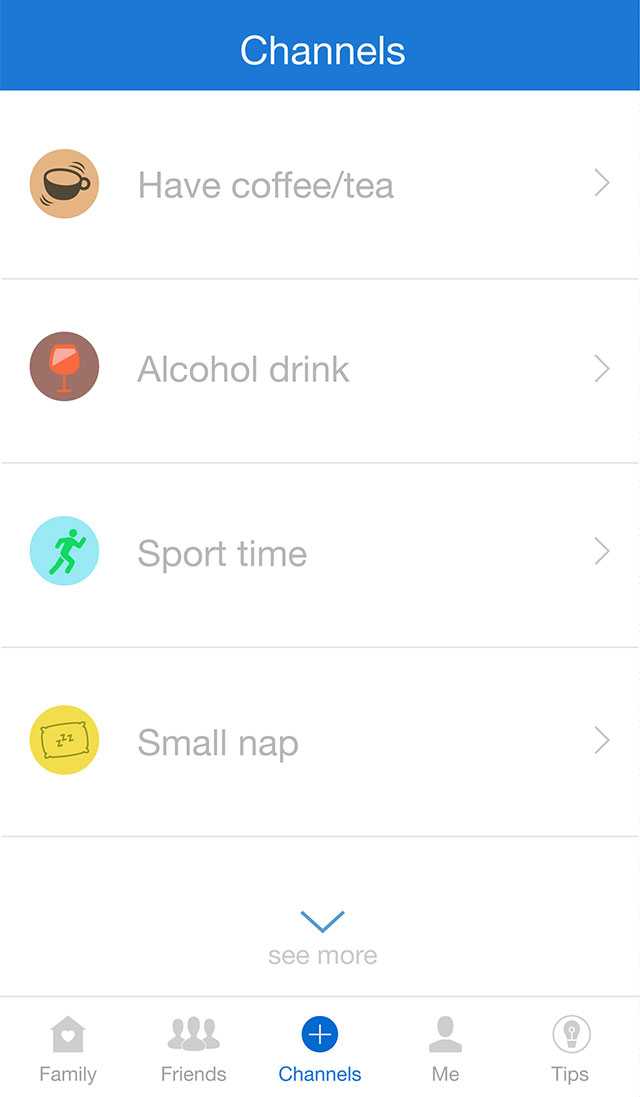
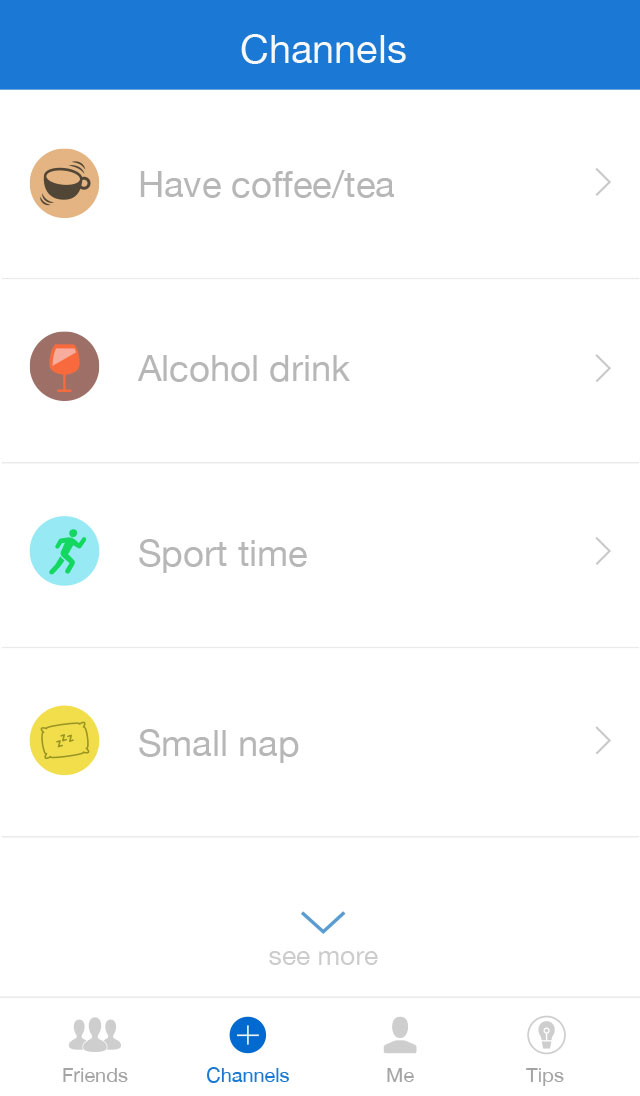
3.16

diff --git a/showcase/M22/main.css b/showcase/M22/main.css
@@ -1165,9 +1165,150 @@ body {
 #channel {
 	height: 548px;
   	width: 320px;
-	background: no-repeat center url("pics/4.jpg");
-  	background-size:cover;
+  	background-color: #fff;
   	margin: 0 auto;
+  	position: relative;
+}
+
+.content-header {
+	height: 50px;
+  	width: 320px;
+	background-color: #016ad0;
+  	margin: 0 auto;
+  	position: relative;
+}
+
+.content-header-title {
+	color: #fff;
+	padding-top: 10px;
+	position: relative;
+	text-align: center;
+}
+
+.content-header-title h1 {
+	font-family: ;
+	font-weight: 200;
+	font-size: 1.1em;
+	color: #fff;
+}
+
+#channel-topic-noon {
+	display: block;
+}
+
+.topic {
+	height: 90px;
+	width: 320px;
+	background-color: #fff;
+	border-bottom: 1px solid #eee;
+}
+
+.topic-icon {
+	height: 40px;
+	width: 40px;
+	margin-top: 25px;
+	margin-left: 15px;
+	background-color: #eee;
+	display: inline-block;
+	vertical-align: middle;
+}
+
+.topic-text {
+	color: #b6b7b7;
+	font-size: 1.1em;
+	font-weight: 200;
+	margin-top: 25px;
+	margin-left: 30px;
+	display: inline-block;
+	vertical-align: middle;
+}
+
+.topic-arrow {
+	height: 20px;
+	width: 20px;
+	margin-top: 35px;
+	margin-right: 15px;
+	background-color: #eee;
+	float: right;
+}
+
+#seemore {
+	width: 320px;
+	height: 30px;
+	margin-top: 30px;
+}
+
+#seemore-icon {
+	height: 20px;
+	width: 30px;
+	margin: 0 auto;
+	background-color: #eee;
+	display: block;
+}
+
+#seemore-text {
+	height: 10px;
+	width: 100px;
+	margin: 5px auto 0 auto;
+	color: #b6b7b7;
+	font-size: 0.8em;
+	font-weight: 200;
+	display: block;
+	text-align: center;
+}
+
+.menu {
+	height: 50px;
+	width: 320px;
+	border-top: 1px solid #eee;
+	position: absolute;
+	bottom: 0px;
+	background-color: #fff;
+}
+
+#menu-friends {
+	margin-left: 16px;
+  	margin-right: 8px;
+}
+
+#menu-channels {
+	margin-left: 4px;
+  	margin-right: 8px;
+}
+
+#menu-me {
+	margin-left: 4px;
+  	margin-right: 8px;
+}
+
+#menu-tips {
+	margin-left: 4px;
+}
+
+.menu-item {
+	width: 60px;
+  	height: 36px;
+  	font-family: "Gothamish",Helvetica,Arial,sans-serif;
+  	font-size: 0.6em;
+  	line-height: 1;
+  	font-weight: 200;
+  	text-align: center;
+  	position: relative;
+  	display: inline-block;
+}
+
+.menu-icon {
+	width:30px;
+	height: 20px;
+	background-color: #b6b7b7;
+	margin: 10px auto 0 auto;
+	display: block;
+}
+
+.menu-text {
+	color: #a5a5a5;
+	margin-top: 6px;
+	display: block;
 }
 
 @media screen and (max-width: 410px) {

diff --git a/showcase/M22/demo.html b/showcase/M22/demo.html
@@ -34,8 +34,58 @@
 		</div>
 	</div>-->
 	<div id="screen-content">
-		<div id="channel"></div>
-		
+		<div id="channel">
+			<div class="content-header"> 
+				<div class="content-header-title">
+					<h1>Channnel</h1> 
+				</div>	
+			</div> 
+			<div id="channel-topic-noon">
+				<div class="topic">
+					<div class="topic-icon"></div>
+					<div class="topic-text">Have coffee/tea</div>
+					<div class="topic-arrow"></div>
+				</div>
+				<div class="topic">
+					<div class="topic-icon"></div>
+					<div class="topic-text">Alcohol drink</div>
+					<div class="topic-arrow"></div>
+				</div>
+				<div class="topic">
+					<div class="topic-icon"></div>
+					<div class="topic-text">Sport time</div>
+					<div class="topic-arrow"></div>
+				</div>
+				<div class="topic">
+					<div class="topic-icon"></div>
+					<div class="topic-text">Small nap</div>
+					<div class="topic-arrow"></div>
+				</div>
+				<div id="seemore">
+					<div id="seemore-icon"></div>
+					<div id="seemore-text">see more</div>
+				</div>
+			</div>
+			
+			<div class="menu">
+				<div id="menu-friends" class="menu-item">
+					<div class="menu-icon"></div>
+					<div class="menu-text">Friends</div>
+				</div>
+				<div id="menu-channels" class="menu-item">
+					<div class="menu-icon"></div>
+					<div class="menu-text">Channels</div>
+				</div>
+				<div id="menu-me" class="menu-item">
+					<div class="menu-icon"></div>
+					<div class="menu-text">Me</div>
+				</div>
+				<div id="menu-tips" class="menu-item">
+					<div class="menu-icon"></div>
+					<div class="menu-text">Tips</div>
+				</div>
+			</div>
+		</div>
 	</div>
 	
 
